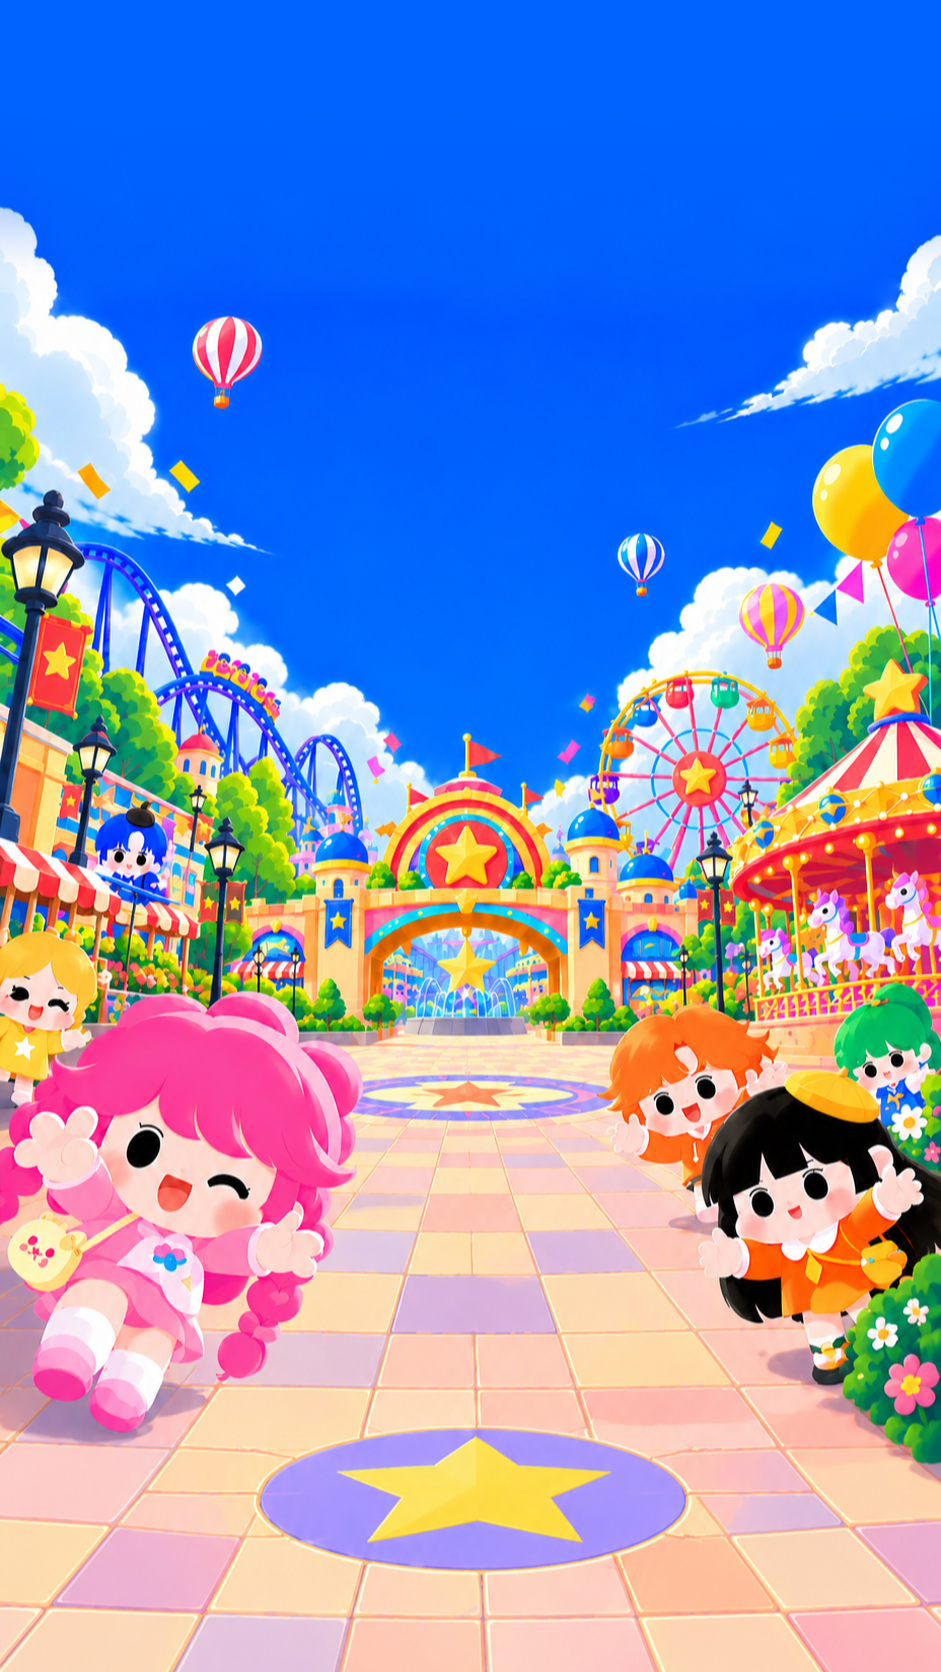
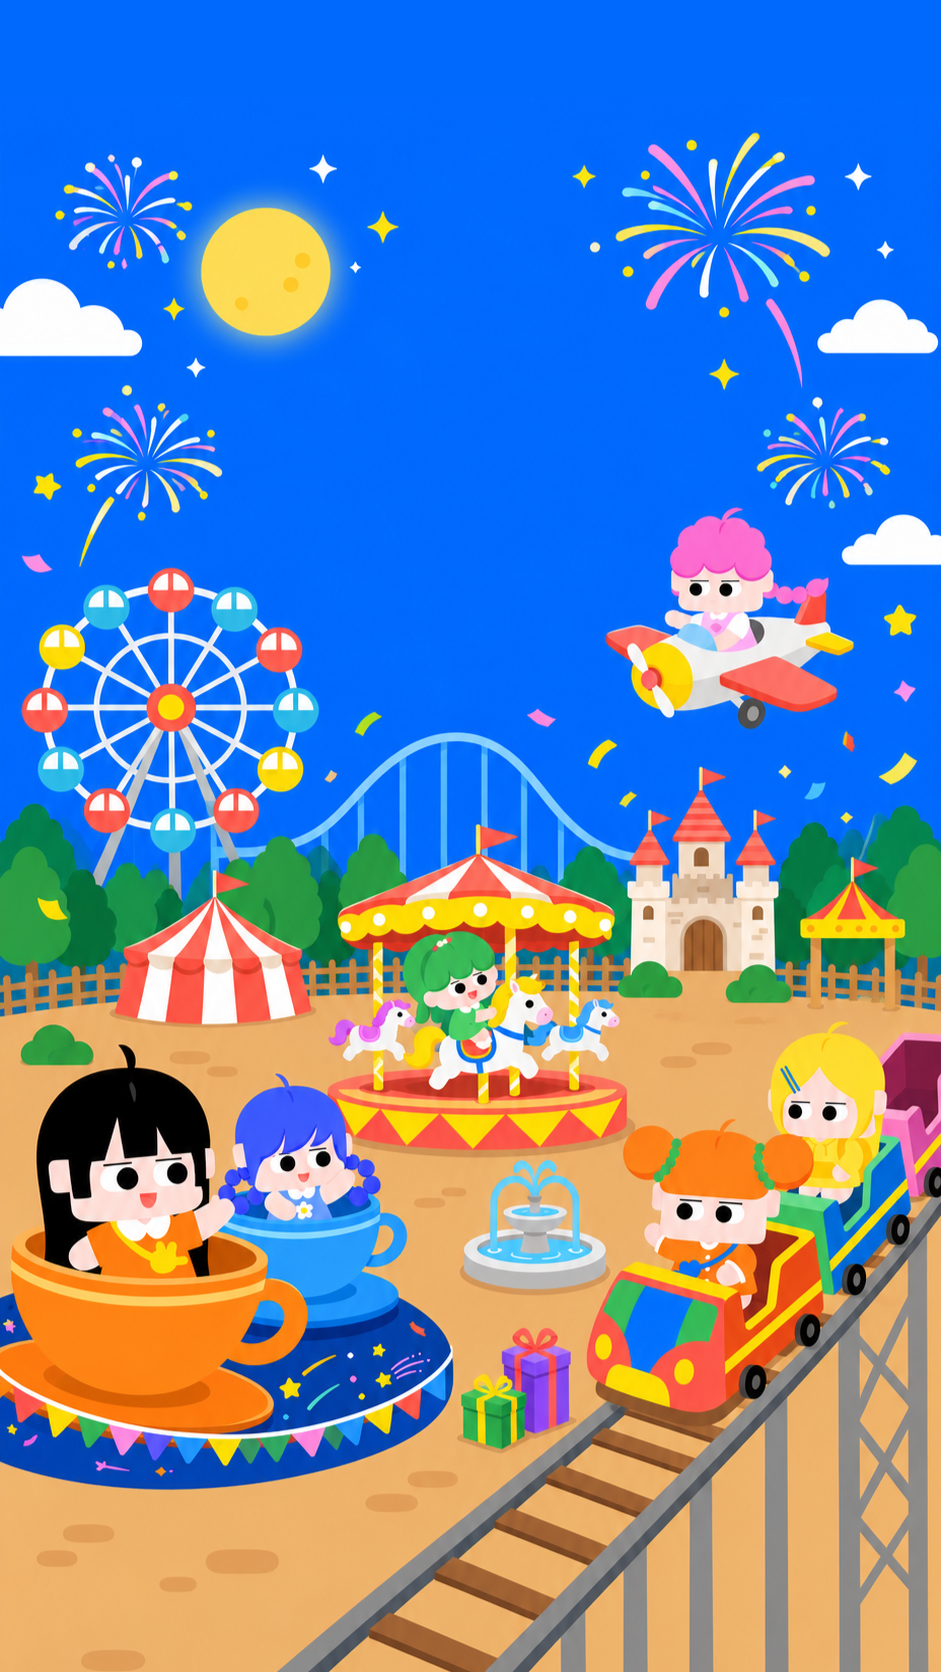
Add files via upload

diff --git a/index.html b/index.html
@@ -81,7 +81,8 @@
       width: 100%;
       display: flex;
       flex-direction: column;
-      align-items: center
+      align-items: center;
+      padding-top: clamp(22px, 4vh, 40px);
     }
 
     .landing-title {
@@ -560,43 +561,194 @@
         transition: none
       }
     }
+  
+    /* Main game entry point: title -> GAME START -> language -> four games. */
+    .landing {
+      padding: clamp(14px, 3.5vh, 40px) 16px clamp(22px, 5.5vh, 64px);
+      gap: 16px;
+    }
+    .landing-title {
+      width: min(68vw, 710px);
+      max-height: min(35vh, 295px);
+      filter: drop-shadow(0 10px 15px rgba(11, 52, 148, .18));
+    }
+    .landing-title-fallback {
+      margin: 0;
+      font-size: clamp(36px, 6.2vw, 83px);
+      line-height: 1.1;
+      color: white;
+      -webkit-text-stroke: 3px #0064ff;
+      paint-order: stroke fill;
+    }
+    .start-area {
+      width: 100%;
+      display: flex;
+      align-items: center;
+      justify-content: center;
+      padding-bottom: clamp(0px, 3.5vh, 42px);
+    }
+    .start-btn {
+      position: relative;
+      z-index: 1;
+      display: inline-flex;
+      align-items: center;
+      justify-content: center;
+      gap: 17px;
+      min-width: min(370px, 92vw);
+      min-height: 83px;
+      padding: 13px 32px 13px 16px;
+      border: 3px solid rgba(236, 250, 255, .98);
+      border-radius: 999px;
+      color: #fff;
+      background: linear-gradient(115deg, #0349d9, #0064ff 52%, #38a9ff);
+      box-shadow:
+        inset 0 3px 0 rgba(255, 255, 255, .38),
+        0 4px 0 rgba(12, 52, 138, .27),
+        0 0 0 8px rgba(23, 117, 255, .22),
+        0 0 36px 10px rgba(16, 126, 255, .75),
+        0 16px 34px rgba(0, 52, 143, .47);
+      font-weight: 950;
+      font-size: clamp(23px, 2.4vw, 31px);
+      letter-spacing: -.025em;
+      text-shadow: 0 2px 4px rgba(0, 45, 111, .48);
+      transition: transform .2s ease, filter .2s ease, box-shadow .2s ease;
+      animation: startPulse 2.8s ease-in-out infinite;
+    }
+    .start-btn::after {
+      content: '';
+      position: absolute;
+      inset: -11px;
+      border: 2px solid rgba(138, 218, 255, .32);
+      border-radius: inherit;
+      pointer-events: none;
+    }
+    .start-btn:hover {
+      transform: translateY(-5px) scale(1.045);
+      filter: brightness(1.1);
+      box-shadow:
+        inset 0 3px 0 rgba(255, 255, 255, .43),
+        0 5px 0 rgba(12, 52, 138, .27),
+        0 0 0 10px rgba(23, 117, 255, .25),
+        0 0 49px 15px rgba(16, 126, 255, .9),
+        0 19px 42px rgba(0, 52, 143, .55);
+    }
+    .start-btn:active { transform: translateY(0) scale(.975); }
+    .start-btn:focus-visible, .back-btn:focus-visible {
+      outline: 3px solid #fff; outline-offset: 7px;
+    }
+    .start-play {
+      display: grid;
+      place-items: center;
+      flex: none;
+      width: 49px;
+      height: 49px;
+      border-radius: 50%;
+      color: #0064ff;
+      background: #fff;
+      box-shadow: inset 0 -2px 0 rgba(9, 57, 135, .13), 0 0 18px rgba(255,255,255,.68);
+    }
+    .start-play svg { width: 24px; height: 24px; margin-left: 3px; }
+    @keyframes startPulse {
+      0%, 100% { box-shadow: inset 0 3px 0 rgba(255,255,255,.38), 0 4px 0 rgba(12,52,138,.27), 0 0 0 8px rgba(23,117,255,.22), 0 0 28px 8px rgba(16,126,255,.64), 0 16px 34px rgba(0,52,143,.47); }
+      50% { box-shadow: inset 0 3px 0 rgba(255,255,255,.38), 0 4px 0 rgba(12,52,138,.27), 0 0 0 11px rgba(23,117,255,.19), 0 0 43px 13px rgba(16,126,255,.85), 0 16px 34px rgba(0,52,143,.47); }
+    }
+    .intro-card.is-language { width: min(710px, 100%); }
+    .intro-card.is-games { width: min(1030px, 100%); }
+    .intro-card.is-language .language-buttons { max-width: 560px; margin: 26px auto 6px; }
+    .intro-card.is-language .glow-btn { min-height: 100px; }
+    .intro-card.is-language .intro-desc { margin-bottom: 18px; }
+    .back-btn {
+      display: inline-flex;
+      align-items: center;
+      justify-content: center;
+      gap: 8px;
+      border: 1px solid rgba(141, 193, 255, .46);
+      background: rgba(59, 98, 158, .25);
+      color: #d4e7ff;
+      border-radius: 999px;
+      font-weight: 750;
+      font-size: 13px;
+      padding: 10px 16px;
+      margin: 15px 0 0;
+    }
+    .back-btn:hover { background: rgba(69, 132, 227, .43); }
+    .step-count { color: #a9caff; }
+    @media (max-width: 767px), (max-height: 500px) and (pointer: coarse) {
+      .landing {
+        /* If bg-mo.png is unavailable, the updated bg.png remains visible. */
+        background-image: url('bg-mo.png'), url('bg.png');
+        background-size: cover, cover;
+        background-position: center center, center center;
+        background-repeat: no-repeat, no-repeat;
+      }
+    }
+    @media (max-width: 600px) {
+      .landing { padding: 18px 10px clamp(24px, 7vh, 66px); }
+      .landing-title { width: min(96vw, 620px); max-height: 31vh; }
+      .start-area { padding-bottom: clamp(0px, 3vh, 28px); }
+      .start-btn { min-width: min(305px, 88vw); min-height: 69px; padding: 10px 22px 10px 12px; gap: 12px; font-size: 23px; border-width: 2px; }
+      .start-play { width: 43px; height: 43px; }
+      .start-play svg { width: 22px; height: 22px; }
+      .intro-card.is-language .language-buttons { gap: 10px; }
+      .intro-card.is-language .glow-btn { min-height: 94px; }
+    }
+    @media (max-width: 350px) {
+      .intro-card.is-language .language-buttons { grid-template-columns: 1fr; }
+      .intro-card.is-language .glow-btn { min-height: 73px; padding: 10px 12px; }
+    }
+    @media (prefers-reduced-motion: reduce) {
+      .start-btn { animation: none; }
+    }
+
   </style>
 </head>
-
 <body>
-  <main class="landing">
+  <main id="landing" class="landing">
     <div class="landing-top">
-      <img id="titleImage" class="landing-title" src="title.png" alt="AFFINITY GAME UNIVERSE" draggable="false">
-      <h1 id="titleFallback" class="landing-title-fallback" hidden>AFFINITY<br>GAME UNIVERSE</h1>
+      <img id="titleImage" class="landing-title" src="title.png" alt="어피니티 유니버스" draggable="false">
+      <h1 id="titleFallback" class="landing-title-fallback" hidden>어피니티<br>유니버스</h1>
     </div>
-    <section class="language-area" aria-label="Language selection">
-      <div class="language-buttons">
-        <button type="button" class="glow-btn" data-lang="ko"><strong>한국어</strong><small>Korean</small></button>
-        <button type="button" class="glow-btn" data-lang="en"><strong>English</strong><small>영어</small></button>
-      </div>
+    <section class="start-area" aria-label="게임 시작">
+      <button type="button" id="startBtn" class="start-btn" aria-haspopup="dialog" aria-controls="introLayer">
+        <span class="start-play" aria-hidden="true">
+          <svg viewBox="0 0 24 24" fill="none" xmlns="http://www.w3.org/2000/svg"><path d="M7 3.7c0-.86.94-1.4 1.69-.97l11.02 7.37a2.3 2.3 0 0 1 0 3.82L8.69 21.3c-.75.5-1.69-.04-1.69-.95V3.7Z" fill="currentColor"/></svg>
+        </span>
+        <span>GAME START</span>
+      </button>
     </section>
   </main>
 
-  <div id="introLayer" class="intro-layer" role="dialog" aria-modal="true" aria-labelledby="introTitle"
-    aria-hidden="true" inert>
-    <section class="intro-card">
+  <div id="introLayer" class="intro-layer" role="dialog" aria-modal="true" aria-labelledby="languageTitle" aria-hidden="true" inert>
+    <div id="introCard" class="intro-card is-language">
       <button id="closeIntro" class="close-btn" type="button" aria-label="닫기">×</button>
-      <div class="intro-label">AFFINITY GAME UNIVERSE</div>
-      <h2 id="introTitle" class="intro-title"></h2>
-      <p id="introDesc" class="intro-desc"></p>
-      <nav id="gameGrid" class="game-grid" aria-label="게임 선택"></nav>
-      <p id="introFooter" class="intro-footer"></p>
-    </section>
+      <section id="languageStep" aria-labelledby="languageTitle">
+        <div class="intro-label">STEP 01 <span class="step-count">&nbsp; / 02 · LANGUAGE</span></div>
+        <h2 id="languageTitle" class="intro-title">언어를 선택해 주세요.</h2>
+        <p class="intro-desc">Choose your language to continue.</p>
+        <div class="language-buttons" aria-label="언어 선택">
+          <button type="button" class="glow-btn" data-lang="ko"><strong>한국어</strong><small>Korean</small></button>
+          <button type="button" class="glow-btn" data-lang="en"><strong>English</strong><small>영어</small></button>
+        </div>
+      </section>
+      <section id="gameStep" aria-labelledby="gameTitle" hidden>
+        <div class="intro-label">STEP 02 <span class="step-count">&nbsp; / 02 · SELECT GAME</span></div>
+        <h2 id="gameTitle" class="intro-title"></h2>
+        <p id="gameDesc" class="intro-desc"></p>
+        <nav id="gameGrid" class="game-grid" aria-label="게임 선택"></nav>
+        <p id="gameFooter" class="intro-footer"></p>
+        <button type="button" id="backBtn" class="back-btn">← 언어 다시 선택</button>
+      </section>
+    </div>
   </div>
 
   <script>
-    // The typing game files honor ?lang=ko and ?lang=en at page load.
+    // Preserve original Korean and English game filenames and typing-language URLs.
     const content = {
       ko: {
-        title: '어피니티 게임 유니버스에 오신 걸 환영해요! 🚀',
+        title: '어피니티 유니버스에 오신 걸 환영해요! 🚀',
         desc: '어떤 게임부터 시작할까요? 원하는 모험을 선택해 보세요.',
         footer: '원하는 게임을 누르면 해당 페이지로 이동합니다.',
-        nav: '게임 선택', close: '닫기',
+        nav: '게임 선택', close: '닫기', back: '← 언어 다시 선택',
         games: [
           { icon: '✎', name: '튜토리얼', detail: '디자인 기초 익히기', href: 'tutorial.html' },
           { icon: '⌨', name: '단축키 게임', detail: '어피니티 단축키 연습', href: 'shortcut.html' },
@@ -605,10 +757,10 @@
         ]
       },
       en: {
-        title: 'Welcome to Affinity Game Universe! 🚀',
+        title: 'Welcome to Affinity Universe! 🚀',
         desc: 'Ready for an adventure? Choose a game to begin.',
         footer: 'Choose a game to open its page.',
-        nav: 'Choose a game', close: 'Close',
+        nav: 'Choose a game', close: 'Close', back: '← Change language',
         games: [
           { icon: '✎', name: 'Tutorial', detail: 'Learn the design basics', href: 'tutorial_en.html' },
           { icon: '⌨', name: 'Shortcut Game', detail: 'Practice Affinity shortcuts', href: 'shortcut_en.html' },
@@ -617,54 +769,94 @@
         ]
       }
     };
+
+    const landing = document.getElementById('landing');
     const layer = document.getElementById('introLayer');
+    const card = document.getElementById('introCard');
+    const languageStep = document.getElementById('languageStep');
+    const gameStep = document.getElementById('gameStep');
     const grid = document.getElementById('gameGrid');
-    const close = document.getElementById('closeIntro');
+    const closeButton = document.getElementById('closeIntro');
+    const backButton = document.getElementById('backBtn');
     let previousFocus = null;
 
-    function openIntro(lang) {
-      const data = content[lang] || content.ko;
+    function showLanguageStep() {
+      languageStep.hidden = false;
+      gameStep.hidden = true;
+      card.classList.replace('is-games', 'is-language');
+      layer.setAttribute('aria-labelledby', 'languageTitle');
+      document.documentElement.lang = 'ko';
+      languageStep.querySelector('[data-lang="ko"]').focus();
+    }
+
+    function openIntro() {
       previousFocus = document.activeElement;
+      layer.inert = false;
+      layer.classList.add('open');
+      layer.setAttribute('aria-hidden', 'false');
+      landing.inert = true;
+      showLanguageStep();
+    }
+
+    function selectLanguage(lang) {
+      const data = content[lang] || content.ko;
       document.documentElement.lang = lang;
-      document.getElementById('introTitle').textContent = data.title;
-      document.getElementById('introDesc').textContent = data.desc;
-      document.getElementById('introFooter').textContent = data.footer;
+      document.getElementById('gameTitle').textContent = data.title;
+      document.getElementById('gameDesc').textContent = data.desc;
+      document.getElementById('gameFooter').textContent = data.footer;
       grid.setAttribute('aria-label', data.nav);
-      close.setAttribute('aria-label', data.close);
+      closeButton.setAttribute('aria-label', data.close);
+      backButton.textContent = data.back;
       grid.replaceChildren();
       for (const item of data.games) {
         const link = document.createElement('a');
         link.className = 'game-link';
         link.href = item.href;
-        const icon = document.createElement('span'); icon.className = 'game-icon'; icon.setAttribute('aria-hidden', 'true'); icon.textContent = item.icon;
-        const title = document.createElement('strong'); title.textContent = item.name;
-        const detail = document.createElement('small'); detail.textContent = item.detail;
+        const icon = document.createElement('span');
+        icon.className = 'game-icon';
+        icon.setAttribute('aria-hidden', 'true');
+        icon.textContent = item.icon;
+        const title = document.createElement('strong');
+        title.textContent = item.name;
+        const detail = document.createElement('small');
+        detail.textContent = item.detail;
         link.append(icon, title, detail);
         grid.appendChild(link);
       }
-      layer.inert = false;
-      layer.classList.add('open');
-      layer.setAttribute('aria-hidden', 'false');
-      close.focus();
+      languageStep.hidden = true;
+      gameStep.hidden = false;
+      card.classList.replace('is-language', 'is-games');
+      layer.setAttribute('aria-labelledby', 'gameTitle');
+      grid.querySelector('a')?.focus();
     }
+
     function closeIntro() {
       layer.classList.remove('open');
       layer.setAttribute('aria-hidden', 'true');
       layer.inert = true;
+      landing.inert = false;
       document.documentElement.lang = 'ko';
+      closeButton.setAttribute('aria-label', '닫기');
       previousFocus?.focus();
     }
-    document.querySelectorAll('[data-lang]').forEach(btn => btn.addEventListener('click', () => openIntro(btn.dataset.lang)));
-    close.addEventListener('click', closeIntro);
-    layer.addEventListener('click', event => { if (event.target === layer) closeIntro() });
+
+    document.getElementById('startBtn').addEventListener('click', openIntro);
+    document.querySelectorAll('[data-lang]').forEach(button => {
+      button.addEventListener('click', () => selectLanguage(button.dataset.lang));
+    });
+    backButton.addEventListener('click', showLanguageStep);
+    closeButton.addEventListener('click', closeIntro);
+    layer.addEventListener('click', event => { if (event.target === layer) closeIntro(); });
     document.addEventListener('keydown', event => {
       if (!layer.classList.contains('open')) return;
       if (event.key === 'Escape') { event.preventDefault(); closeIntro(); return; }
       if (event.key === 'Tab') {
-        const items = [...layer.querySelectorAll('button:not([disabled]),a[href]')];
-        const first = items[0], last = items[items.length - 1];
-        if (event.shiftKey && document.activeElement === first) { event.preventDefault(); last.focus() }
-        else if (!event.shiftKey && document.activeElement === last) { event.preventDefault(); first.focus() }
+        const items = [...layer.querySelectorAll('button:not([disabled]), a[href]')].filter(el => el.getClientRects().length > 0);
+        const first = items[0];
+        const last = items[items.length - 1];
+        if (!first || !last) return;
+        if (event.shiftKey && document.activeElement === first) { event.preventDefault(); last.focus(); }
+        else if (!event.shiftKey && document.activeElement === last) { event.preventDefault(); first.focus(); }
       }
     });
     document.getElementById('titleImage').addEventListener('error', event => {
@@ -673,5 +865,4 @@
     });
   </script>
 </body>
-
 </html>
